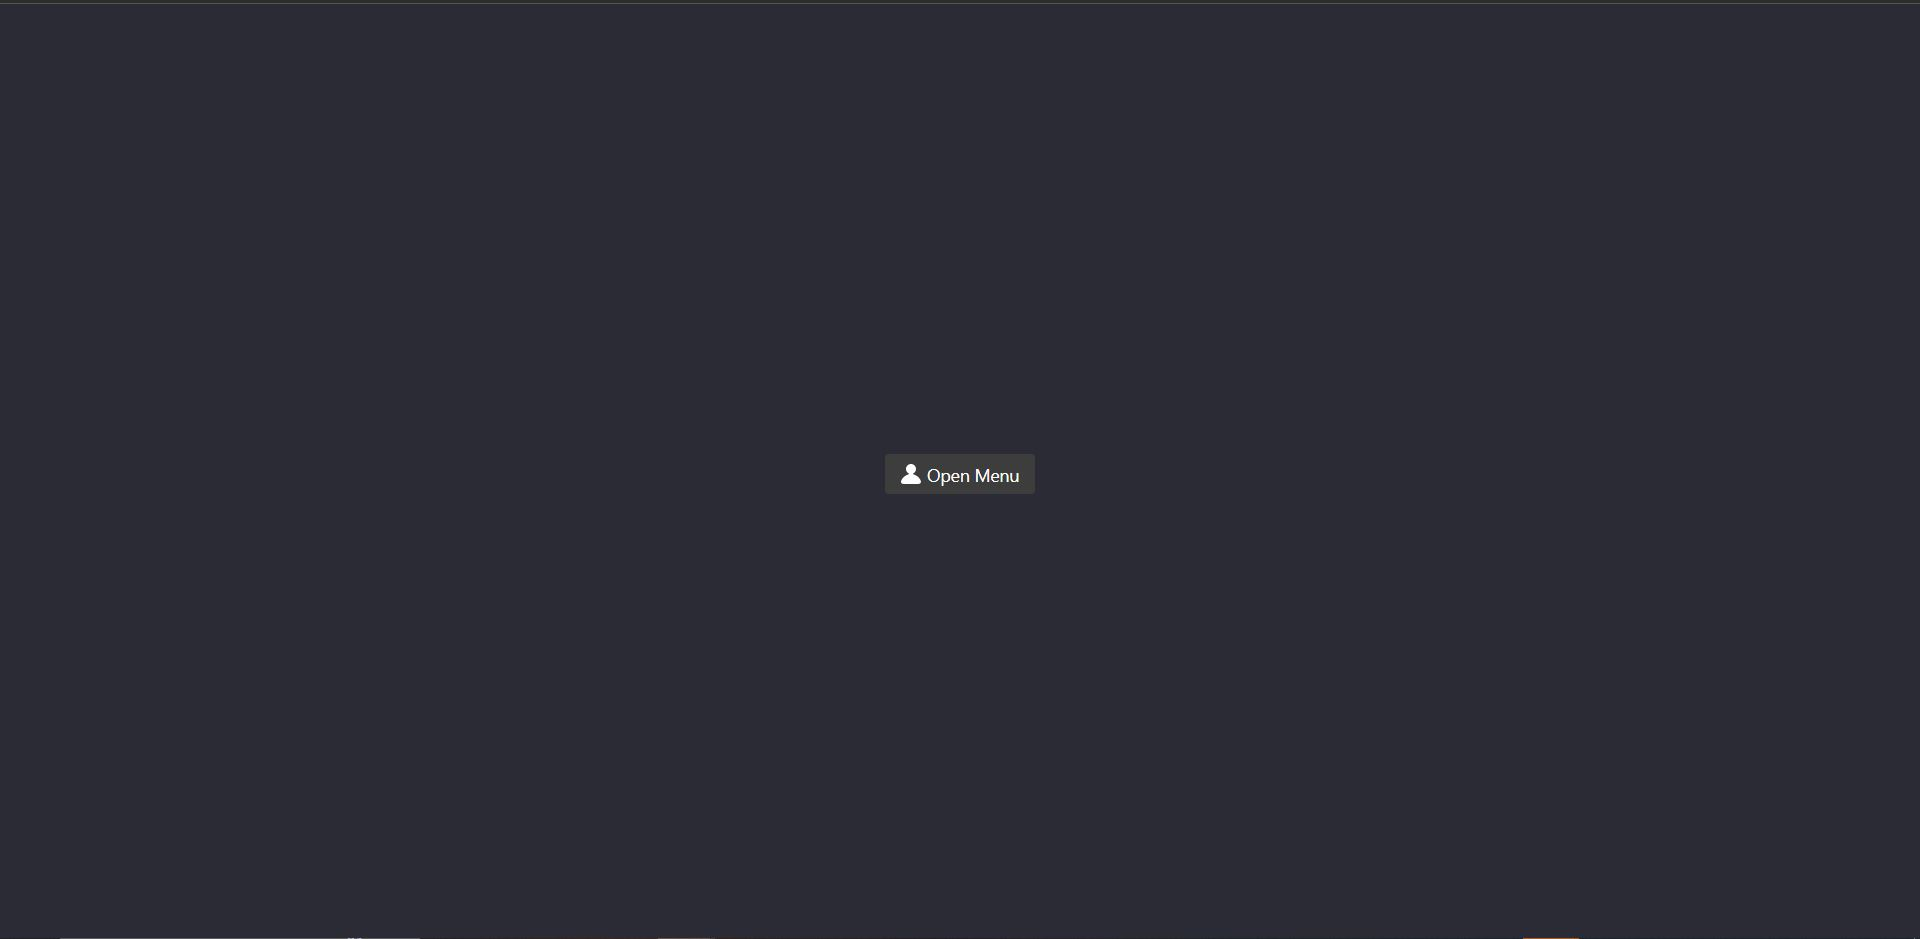
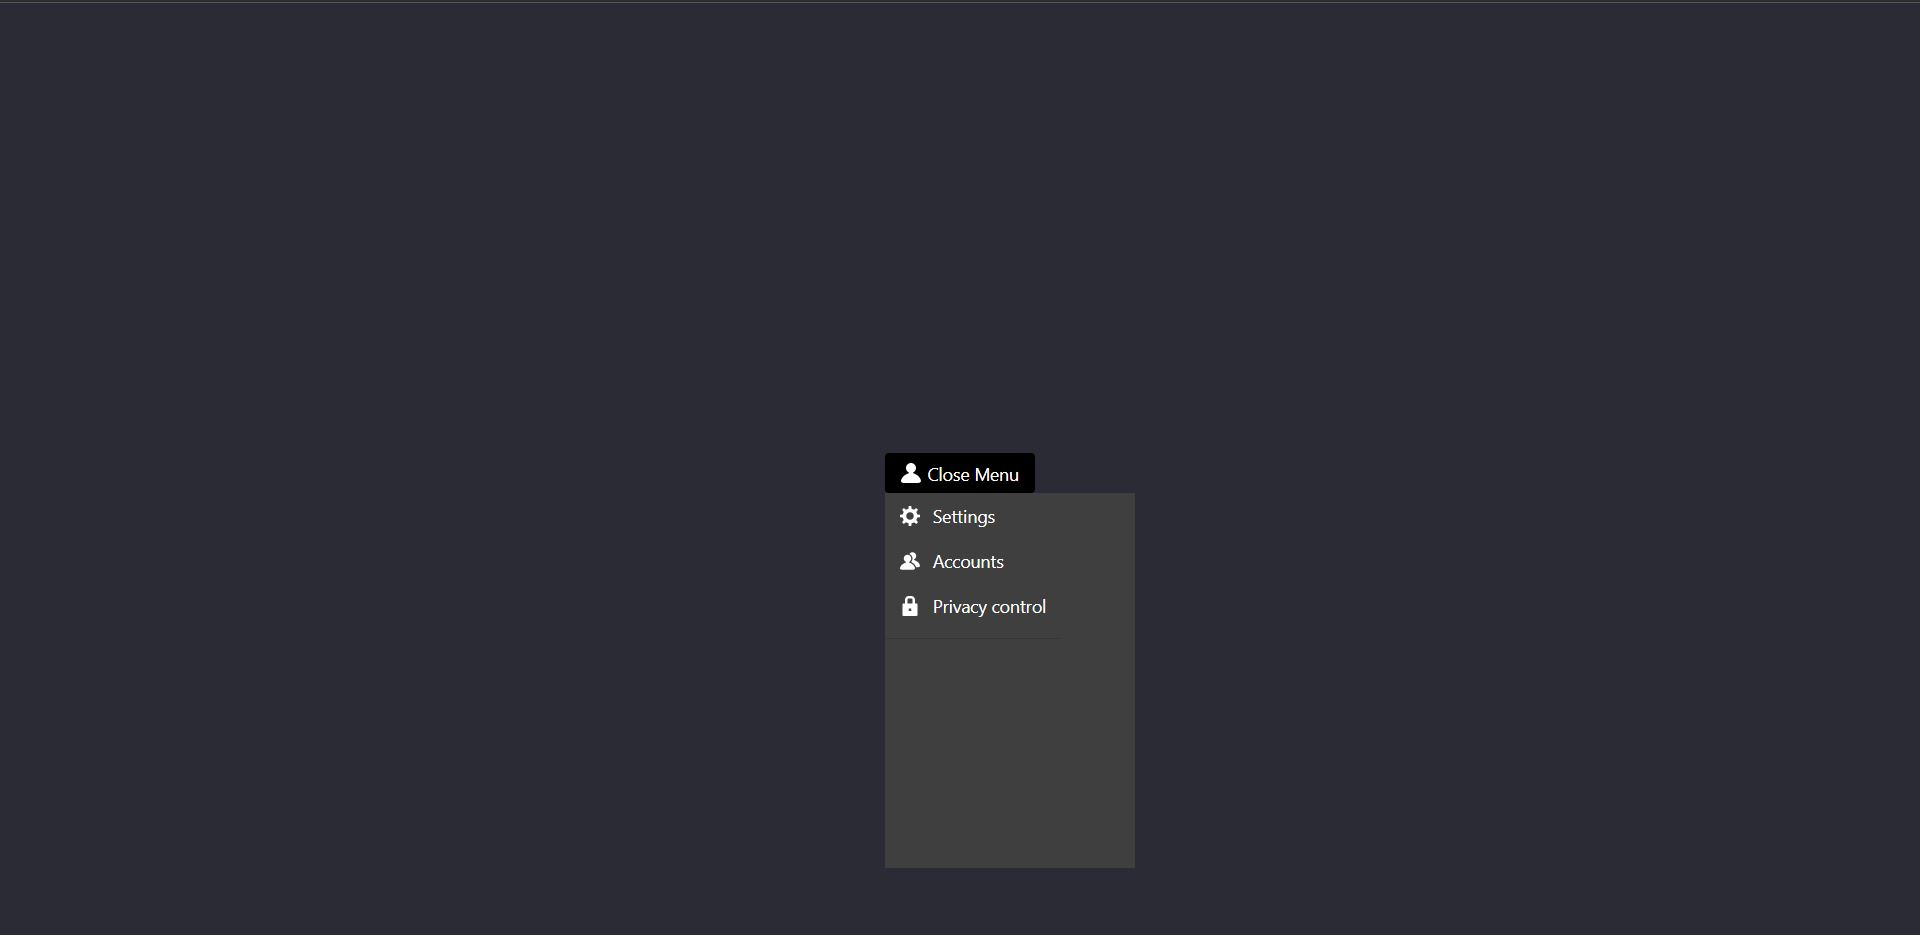
Update files

diff --git a/src/MenuBtn.jsx b/src/MenuBtn.jsx
@@ -21,41 +21,41 @@ function MenuBtn() {
     setMenuOpen(!isMenuOpen);
   };
 
-  // const calculateModalPosition = () => {
-  //   if (buttonRef.current && isMenuOpen) {
-  //     const buttonRect = buttonRef.current.getBoundingClientRect();
-  //     setModalPosition({
-  //       top: buttonRect.bottom + window.scrollY,
-  //       left: buttonRect.left + window.scrollX,
-  //     });
-  //   }
-  // };
+  const calculateModalPosition = () => {
+    if (buttonRef.current && isMenuOpen) {
+      const buttonRect = buttonRef.current.getBoundingClientRect();
+      setModalPosition({
+        top: buttonRect.bottom + window.scrollY,
+        left: buttonRect.left + window.scrollX,
+      });
+    }
+  };
 
-  // const handleResize = () => {
-  //   cancelAnimationFrame(resizeTimeout);
-  //   resizeTimeout = requestAnimationFrame(() => {
-  //     calculateModalPosition();
-  //     setMenuOpen(false);
-  //   });
-  // };
+  const handleResize = () => {
+    cancelAnimationFrame(resizeTimeout);
+    resizeTimeout = requestAnimationFrame(() => {
+      calculateModalPosition();
+      setMenuOpen(false);
+    });
+  };
 
-  // useEffect(() => {
-  //   window.addEventListener("resize", handleResize);
-  //   return () => {
-  //     window.removeEventListener("resize", handleResize);
-  //   };
-  // }, []);
+  useEffect(() => {
+    window.addEventListener("resize", handleResize);
+    return () => {
+      window.removeEventListener("resize", handleResize);
+    };
+  }, []);
 
-  // useEffect(() => {
-  //   calculateModalPosition();
-  // }, [isMenuOpen]);
+  useEffect(() => {
+    calculateModalPosition();
+  }, [isMenuOpen]);
 
   return (
     <div>
       <Button
         onClick={toggleMenu}
-        style={{ marginTop: "5px", color: "white", backgroundColor: "#3d3d3d" }}
-        // ref={buttonRef}
+        style={{ marginTop: "5px", color: "white", backgroundColor: "#000000" }}
+        ref={buttonRef}
         data-testid="menu-btn"
       >
         <Icon style={{ color: "white", fontSize: "10px" }} icon="user" />
@@ -69,8 +69,8 @@ function MenuBtn() {
           isOpen={isMenuOpen}
           style={{
             position: "absolute",
-            // top: `${modalPosition.top}px`,
-            // left: `${modalPosition.left}px`,
+            top: `${modalPosition.top}px`,
+            left: `${modalPosition.left}px`,
             backgroundColor: "#3f3f3f",
             width: "200px",
             height: "300px",
